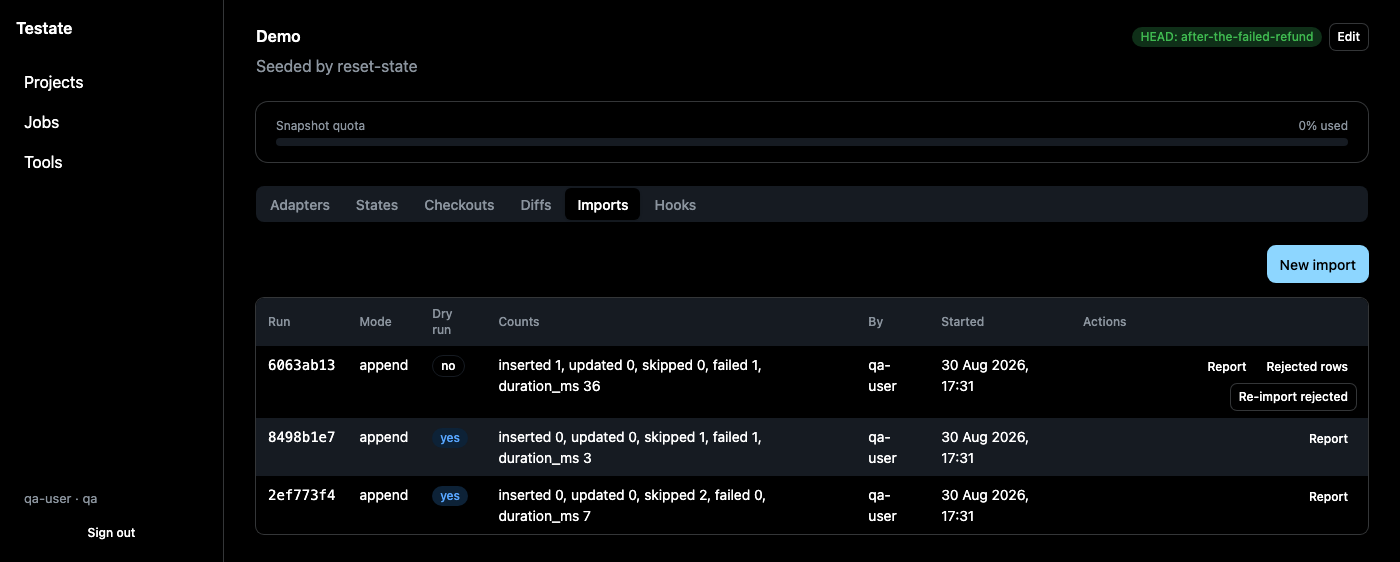
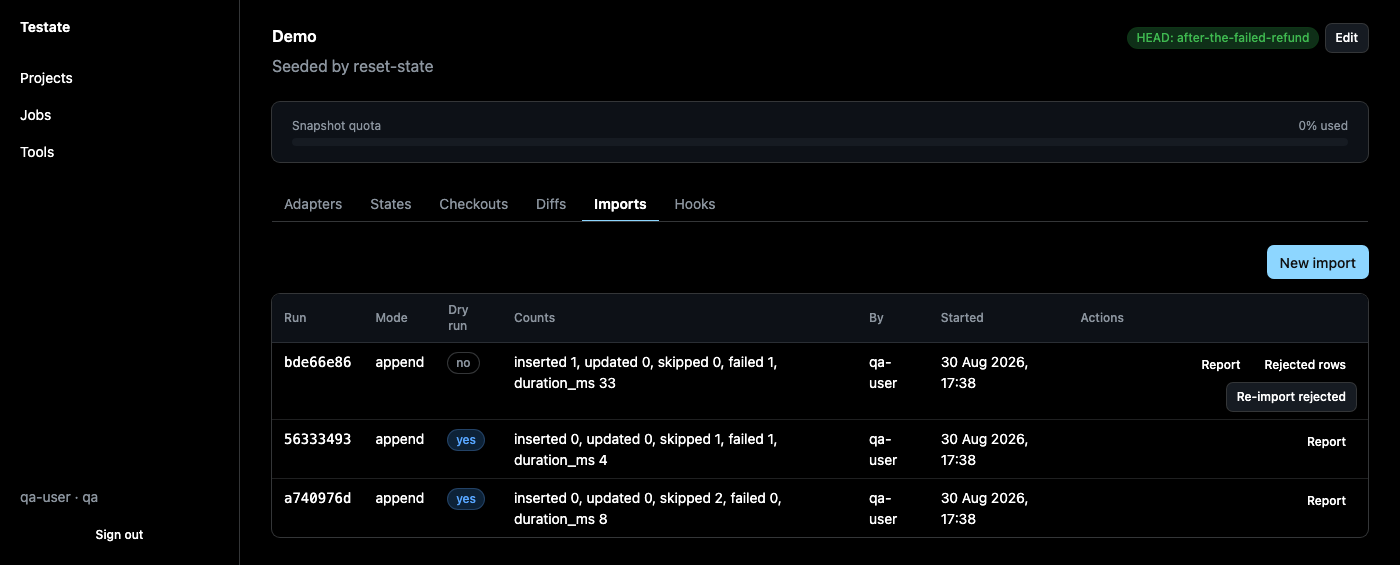
feat(web): the components in GitHub's shapes
Sizes, radii, borders and focus, on the tokens the last commit retargeted.

Controls are 20, 28, 32 and 40 pixels tall on a 6px radius, and cards sit on
the elevated surface at 8px. Focus is a 2px cyan outline with 2px offset, which
is what the specification's accessibility section asks for and what the review
found missing on three anchors.

Tables separate rows with a line and lift the row you point at, instead of
striping every other one. Tabs underline the one you are on instead of filling
a pill. Banners, badges and toasts carry a hairline of their own hue so a
status reads as a block on a black page.

Solid fills and text of the same status are now different colours on purpose:
white on #f85149 measures 3.4:1, so the solid red is #da3633 and #f85149 is the
text that has to read on black.

diff --git a/apps/web/src/components/button.tsx b/apps/web/src/components/button.tsx
@@ -3,28 +3,30 @@ import { merge, omit } from "solid-js";
 
 // Variant and size strings come from the Kumo registry entry "Button".
 const BASE =
-  "inline-flex cursor-pointer items-center justify-center font-medium whitespace-nowrap select-none outline-none focus-visible:ring-2 focus-visible:ring-kumo-focus disabled:cursor-not-allowed";
+  "inline-flex cursor-pointer items-center justify-center font-medium whitespace-nowrap select-none outline-none focus-visible:outline-2 focus-visible:outline-offset-2 focus-visible:outline-kumo-focus disabled:cursor-not-allowed";
 
 // Kumo's React Button sets --kumo-button-emphasis-bg inline; here the emphasis
 // colours are the contrast and danger tokens directly.
+// Cyan is what you can act on, and it carries near-black: white on it fails AA (ADR 0002).
 const VARIANTS = {
   primary:
-    "bg-kumo-contrast text-kumo-base ring ring-kumo-contrast not-disabled:hover:opacity-90 disabled:opacity-50",
+    "bg-kumo-contrast !text-kumo-inverse ring ring-kumo-contrast not-disabled:hover:bg-kumo-brand-hover disabled:opacity-50",
   secondary:
-    "bg-kumo-base !text-kumo-default ring not-disabled:hover:bg-kumo-tint disabled:bg-kumo-base/50 disabled:!text-kumo-default/70 ring-kumo-line",
+    "bg-kumo-fill !text-kumo-default ring ring-kumo-line not-disabled:hover:bg-kumo-fill-hover disabled:opacity-50",
   ghost: "text-kumo-default hover:bg-kumo-tint shadow-none bg-inherit",
   success:
-    "bg-kumo-success text-white ring ring-kumo-success not-disabled:hover:opacity-90 disabled:opacity-50",
-  destructive: "bg-kumo-danger !text-white ring ring-kumo-danger disabled:opacity-50",
-  outline:
-    "bg-transparent text-kumo-default ring ring-kumo-line not-disabled:hover:text-kumo-strong not-disabled:hover:ring-kumo-hairline",
+    "bg-kumo-success !text-white ring ring-kumo-success not-disabled:hover:opacity-90 disabled:opacity-50",
+  destructive:
+    "bg-kumo-danger !text-white ring ring-kumo-danger not-disabled:hover:opacity-90 disabled:opacity-50",
+  outline: "bg-transparent text-kumo-default ring ring-kumo-line not-disabled:hover:bg-kumo-tint",
 } as const;
 
+// 20, 28, 32 and 40 pixels tall: the control heights GitHub uses, all on the 6px radius.
 const SIZES = {
-  xs: "h-5 gap-1 rounded-sm px-1.5 text-xs",
-  sm: "h-6.5 gap-1 rounded-md px-2 text-xs",
-  base: "h-9 gap-1.5 rounded-lg px-3 text-base",
-  lg: "h-10 gap-2 rounded-lg px-4 text-base",
+  xs: "h-5 gap-1 rounded-md px-1.5 text-xs",
+  sm: "h-7 gap-1 rounded-md px-2.5 text-xs",
+  base: "h-8 gap-1.5 rounded-md px-3 text-base",
+  lg: "h-10 gap-2 rounded-md px-4 text-base",
 } as const;
 
 /**

diff --git a/apps/web/src/components/tabs.tsx b/apps/web/src/components/tabs.tsx
@@ -16,7 +16,7 @@ export default function Tabs<T extends string>(props: TabsProps<T>): JSX.Element
     <div
       role="tablist"
       aria-label={props.label}
-      class="inline-flex gap-0.5 rounded-lg bg-kumo-fill p-0.5"
+      class="flex w-full gap-1 overflow-x-auto border-b border-kumo-line"
     >
       <For each={props.items}>
         {(item) => (
@@ -25,17 +25,18 @@ export default function Tabs<T extends string>(props: TabsProps<T>): JSX.Element
             role="tab"
             aria-selected={props.value === item.id ? "true" : "false"}
             class={[
-              "inline-flex h-8 cursor-pointer items-center gap-1.5 rounded-md px-3 text-base font-medium outline-none focus-visible:ring-2 focus-visible:ring-kumo-focus",
+              "-mb-px inline-flex h-9 cursor-pointer items-center gap-1.5 rounded-t-md border-b-2 px-3 text-base outline-none focus-visible:outline-2 focus-visible:outline-offset-2 focus-visible:outline-kumo-focus",
               {
-                "bg-kumo-base text-kumo-strong shadow-sm": props.value === item.id,
-                "text-kumo-subtle hover:text-kumo-default": props.value !== item.id,
+                "border-kumo-contrast font-semibold text-kumo-strong": props.value === item.id,
+                "border-transparent text-kumo-subtle hover:border-kumo-line hover:text-kumo-default":
+                  props.value !== item.id,
               },
             ]}
             onClick={() => props.onChange(item.id)}
           >
             {item.label}
             <Show when={item.count !== undefined && item.count > 0}>
-              <span class="rounded-full bg-kumo-tint px-1.5 text-xs text-kumo-subtle">
+              <span class="rounded-full bg-kumo-fill px-1.5 text-xs text-kumo-subtle">
                 {item.count}
               </span>
             </Show>

diff --git a/apps/web/src/app.tsx b/apps/web/src/app.tsx
@@ -129,15 +129,15 @@ function Sidebar(props: { current: string | undefined }): JSX.Element {
     navigate(path);
   };
   return (
-    <aside class="sticky top-0 flex h-screen w-56 flex-col overflow-y-auto border-r border-kumo-line px-4 py-4">
-      <div class="mb-6 font-semibold">Testate</div>
+    <aside class="sticky top-0 flex h-screen w-60 flex-col overflow-y-auto border-r border-kumo-line px-3 py-4">
+      <div class="mb-6 px-2 text-base font-semibold text-kumo-strong">Testate</div>
       <nav class="grid gap-1">
         <For each={NAV.filter((item) => hasRole(item.role))}>
           {(item) => (
             <a
               class={[
-                "rounded-md px-2 py-1.5 hover:bg-kumo-tint",
-                { "bg-kumo-tint font-medium": props.current === item.path },
+                "rounded-md px-2 py-1.5 text-base text-kumo-default hover:bg-kumo-tint",
+                { "bg-kumo-fill font-semibold": props.current === item.path },
               ]}
               href={href(item.path)}
               onClick={(event) => onNav(event, item.path)}
@@ -153,8 +153,8 @@ function Sidebar(props: { current: string | undefined }): JSX.Element {
             <>
               <a
                 class={[
-                  "rounded-md px-2 py-1.5 text-kumo-subtle hover:bg-kumo-tint",
-                  { "bg-kumo-tint font-medium": props.current === "/account" },
+                  "rounded-md px-2 py-1.5 text-base text-kumo-subtle hover:bg-kumo-tint",
+                  { "bg-kumo-fill font-semibold": props.current === "/account" },
                 ]}
                 href={href("/account")}
                 onClick={(event) => onNav(event, "/account")}

diff --git a/apps/web/src/components/input.tsx b/apps/web/src/components/input.tsx
@@ -3,17 +3,17 @@ import { merge, omit } from "solid-js";
 
 // Size and focus strings come from the Kumo registry entry "Input".
 export const FIELD_BASE =
-  "w-full bg-kumo-base text-kumo-default ring ring-kumo-line outline-none placeholder:text-kumo-subtle disabled:bg-kumo-base/50 disabled:text-kumo-default/70";
+  "w-full bg-kumo-control text-kumo-default ring ring-kumo-line outline-none placeholder:text-kumo-placeholder disabled:opacity-50";
 
 export const FIELD_SIZES = {
-  sm: "h-6.5 rounded-md px-2 text-xs",
-  base: "h-9 rounded-lg px-3 text-base",
-  lg: "h-10 rounded-lg px-4 text-base",
+  sm: "h-7 rounded-md px-2 text-xs",
+  base: "h-8 rounded-md px-3 text-base",
+  lg: "h-10 rounded-md px-4 text-base",
 } as const;
 
 export const FIELD_VARIANTS = {
-  default: "focus:ring-kumo-focus/50 focus:ring-[1.5px]",
-  error: "!ring-kumo-danger focus:ring-kumo-danger/50 focus:ring-[1.5px]",
+  default: "focus:ring-kumo-focus focus:ring-2",
+  error: "!ring-kumo-danger focus:ring-kumo-danger focus:ring-2",
 } as const;
 
 export type InputProps = ComponentProps<"input"> & {

diff --git a/apps/web/src/components/switch.tsx b/apps/web/src/components/switch.tsx
@@ -17,14 +17,14 @@ export default function Switch(props: SwitchProps): JSX.Element {
         aria-checked={props.checked ? "true" : "false"}
         disabled={props.disabled}
         class={[
-          "relative h-6.5 w-10.5 shrink-0 rounded-full ring ring-kumo-line transition-colors outline-none focus-visible:ring-2 focus-visible:ring-kumo-focus disabled:opacity-50",
+          "relative h-6.5 w-10.5 shrink-0 rounded-full ring ring-kumo-line outline-none focus-visible:outline-2 focus-visible:outline-offset-2 focus-visible:outline-kumo-focus disabled:opacity-50",
           { "bg-kumo-contrast": props.checked, "bg-kumo-fill": !props.checked },
         ]}
         onClick={() => props.onChange(!props.checked)}
       >
         <span
           class={[
-            "absolute top-0.5 left-0.5 h-5.5 w-5.5 rounded-full bg-kumo-base shadow-sm transition-transform",
+            "absolute top-0.5 left-0.5 h-5.5 w-5.5 rounded-full bg-kumo-elevated shadow-sm transition-transform duration-[80ms]",
             { "translate-x-4": props.checked },
           ]}
         />

diff --git a/apps/web/src/components/toast.tsx b/apps/web/src/components/toast.tsx
@@ -5,9 +5,9 @@ import { toasts } from "@/lib/toast.ts";
 import type { ToastTone } from "@/lib/toast.ts";
 
 const TONES = {
-  info: "bg-kumo-info-tint text-kumo-info",
-  success: "bg-kumo-success-tint text-kumo-success",
-  error: "bg-kumo-danger-tint text-kumo-danger",
+  info: "bg-kumo-info-tint text-kumo-info ring-kumo-info/40",
+  success: "bg-kumo-success-tint text-kumo-success ring-kumo-success/40",
+  error: "bg-kumo-danger-tint text-kumo-danger ring-kumo-danger/40",
 } satisfies Record<ToastTone, string>;
 
 /** Mount once, near the end of the app tree. */
@@ -19,12 +19,7 @@ export default function Toaster(): JSX.Element {
     >
       <For each={toasts()}>
         {(toast) => (
-          <div
-            class={[
-              "rounded-lg px-4 py-2 text-base shadow-md ring ring-kumo-line",
-              TONES[toast.tone],
-            ]}
-          >
+          <div class={["rounded-md px-4 py-2 text-base shadow-md ring", TONES[toast.tone]]}>
             {toast.message}
           </div>
         )}

diff --git a/apps/web/src/components/banner.tsx b/apps/web/src/components/banner.tsx
@@ -2,10 +2,10 @@ import type { JSX } from "@solidjs/web";
 
 // Strings come from the Kumo registry entry "Banner".
 const VARIANTS = {
-  default: "bg-kumo-info-tint text-kumo-info",
-  alert: "bg-kumo-warning-tint text-kumo-warning",
-  error: "bg-kumo-danger-tint text-kumo-danger",
-  secondary: "bg-kumo-contrast/5 text-kumo-default/70",
+  default: "bg-kumo-info-tint text-kumo-info ring ring-kumo-info/40",
+  alert: "bg-kumo-warning-tint text-kumo-warning ring ring-kumo-warning/40",
+  error: "bg-kumo-danger-tint text-kumo-danger ring ring-kumo-danger/40",
+  secondary: "bg-kumo-fill text-kumo-subtle ring ring-kumo-line",
 } as const;
 
 export type BannerProps = {
@@ -18,7 +18,7 @@ export default function Banner(props: BannerProps): JSX.Element {
     <div
       role="status"
       class={[
-        "flex w-full items-start gap-3 rounded-lg px-4 py-3 text-base",
+        "flex w-full items-start gap-3 rounded-md px-4 py-3 text-base",
         VARIANTS[props.variant ?? "default"],
       ]}
     >

diff --git a/apps/web/src/components/badge.tsx b/apps/web/src/components/badge.tsx
@@ -6,12 +6,12 @@ const BASE =
 
 const VARIANTS = {
   primary: "bg-kumo-badge-inverted text-kumo-badge-inverted",
-  secondary: "bg-kumo-fill text-kumo-badge-neutral-subtle",
-  error: "bg-kumo-danger-tint text-kumo-danger",
-  warning: "bg-kumo-warning-tint text-kumo-warning",
-  success: "bg-kumo-success-tint text-kumo-success",
-  info: "bg-kumo-info-tint text-kumo-info",
-  outline: "border border-kumo-fill bg-kumo-base text-kumo-default",
+  secondary: "bg-kumo-fill text-kumo-badge-neutral-subtle ring ring-kumo-line",
+  error: "bg-kumo-danger-tint text-kumo-danger ring ring-kumo-danger/40",
+  warning: "bg-kumo-warning-tint text-kumo-warning ring ring-kumo-warning/40",
+  success: "bg-kumo-success-tint text-kumo-success ring ring-kumo-success/40",
+  info: "bg-kumo-info-tint text-kumo-info ring ring-kumo-info/40",
+  outline: "bg-transparent text-kumo-subtle ring ring-kumo-line",
 } as const;
 
 export type BadgeProps = {

diff --git a/apps/web/src/components/table.tsx b/apps/web/src/components/table.tsx
@@ -17,14 +17,23 @@ export function Head(props: ComponentProps<"th">): JSX.Element {
   return (
     <th
       {...rest}
-      class={["bg-kumo-tint px-3 py-2 text-left text-xs font-medium text-kumo-subtle", props.class]}
+      class={[
+        "border-b border-kumo-hairline bg-kumo-elevated px-3 py-2 text-left text-xs font-medium text-kumo-subtle",
+        props.class,
+      ]}
     />
   );
 }
 
 export function Row(props: ComponentProps<"tr">): JSX.Element {
   const rest = omit(props, "class");
-  return <tr {...rest} class={["even:bg-kumo-tint", props.class]} />;
+  // A line between rows, not a stripe: the row you point at is the one that lifts.
+  return (
+    <tr
+      {...rest}
+      class={["border-b border-kumo-hairline last:border-0 hover:bg-kumo-tint", props.class]}
+    />
+  );
 }
 
 /**

diff --git a/apps/web/src/styles/app.css b/apps/web/src/styles/app.css
@@ -33,11 +33,13 @@
   --color-kumo-focus: #8dd6ff;
 
   /* Status. The specification carries none, and a job outcome has to read as one. */
-  --color-kumo-success: #3fb950;
+  /* Solid fills carry white text, so they are the darker pair; the text tokens below are the
+     lighter pair that has to read on black. */
+  --color-kumo-success: #238636;
   --color-kumo-success-tint: #0f2f18;
-  --color-kumo-warning: #d29922;
+  --color-kumo-warning: #9e6a03;
   --color-kumo-warning-tint: #2e2306;
-  --color-kumo-danger: #f85149;
+  --color-kumo-danger: #da3633;
   --color-kumo-danger-tint: #3d1315;
   --color-kumo-info: #58a6ff;
   --color-kumo-info-tint: #0d2237;

diff --git a/apps/web/src/components/dialog.tsx b/apps/web/src/components/dialog.tsx
@@ -37,7 +37,7 @@ export default function Dialog(props: DialogProps): JSX.Element {
     <dialog
       ref={setElement}
       class={[
-        "m-auto max-h-[calc(100vh-2rem)] w-[calc(100%-2rem)] overflow-y-auto rounded-xl bg-kumo-elevated p-0 text-kumo-default shadow-xl ring ring-kumo-line backdrop:bg-kumo-contrast/40",
+        "m-auto max-h-[calc(100vh-2rem)] w-[calc(100%-2rem)] overflow-y-auto rounded-lg bg-kumo-elevated p-0 text-kumo-default shadow-xl ring ring-kumo-line backdrop:bg-kumo-recessed/80",
         SIZES[props.size ?? "base"],
       ]}
       onClose={() => props.onClose()}

diff --git a/apps/web/src/components/layer-card.tsx b/apps/web/src/components/layer-card.tsx
@@ -5,6 +5,9 @@ import { omit } from "solid-js";
 export default function LayerCard(props: ComponentProps<"section">): JSX.Element {
   const rest = omit(props, "class");
   return (
-    <section {...rest} class={["rounded-xl bg-kumo-base p-4 ring ring-kumo-line", props.class]} />
+    <section
+      {...rest}
+      class={["rounded-lg bg-kumo-elevated p-4 ring ring-kumo-line", props.class]}
+    />
   );
 }
